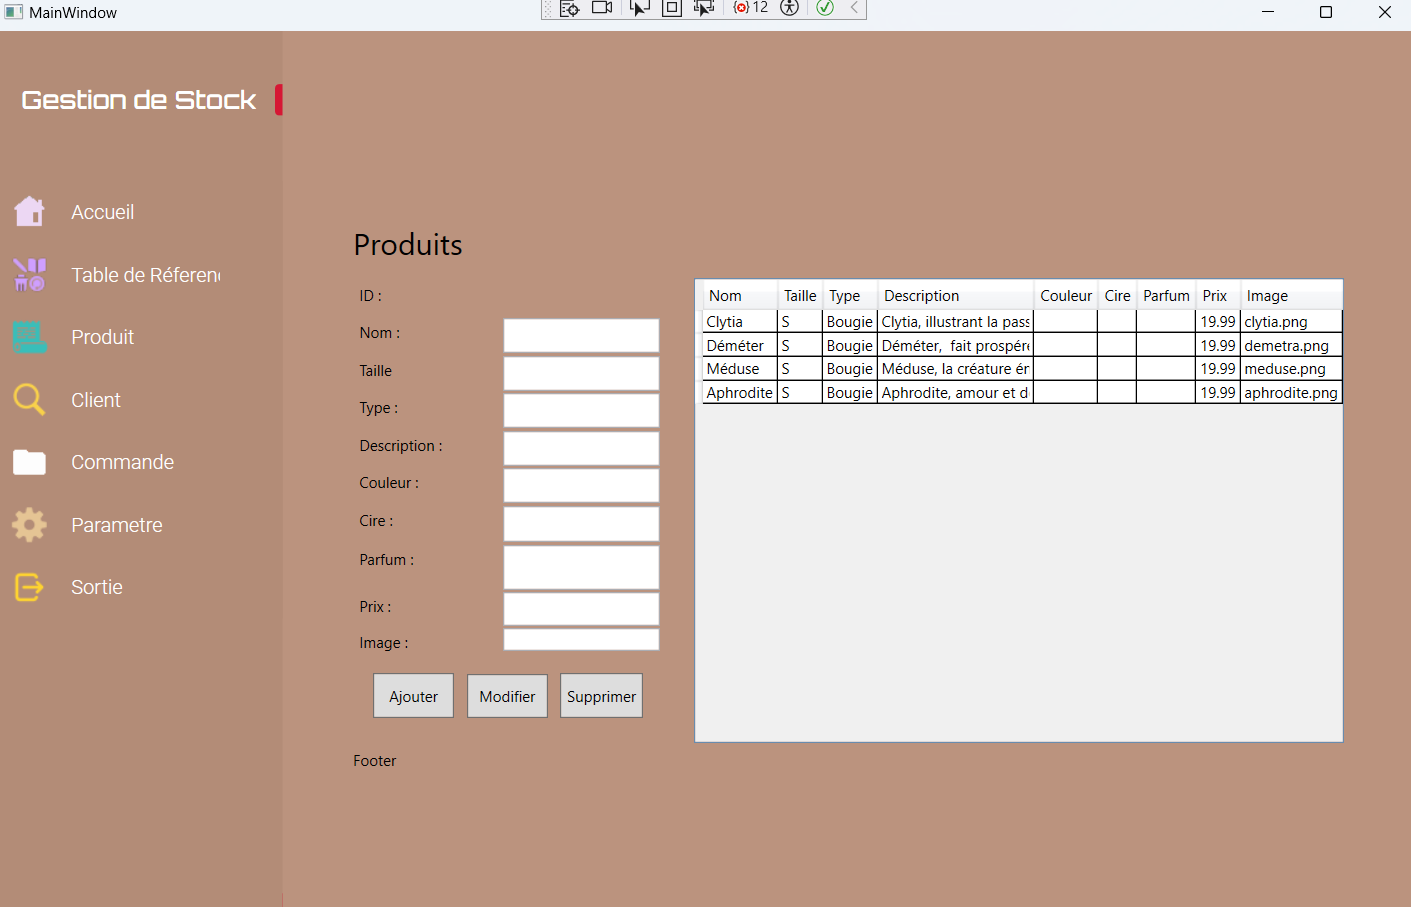
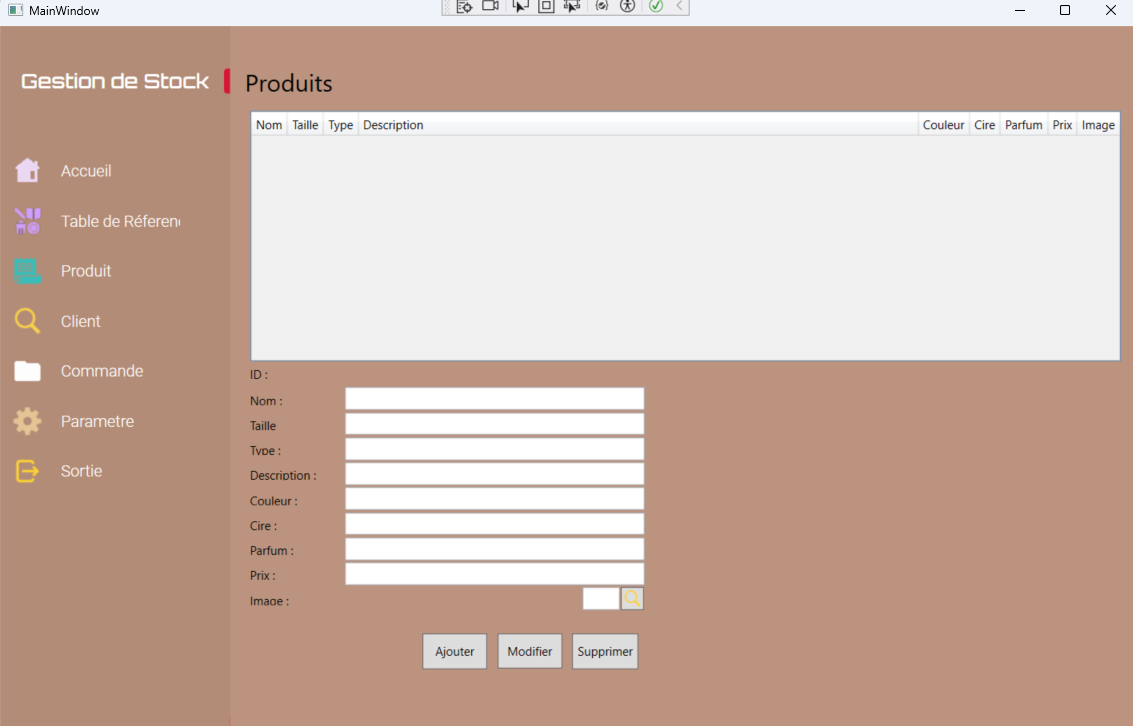
mj4

diff --git a/projet4_formation.html b/projet4_formation.html
@@ -30,7 +30,7 @@
         <div class="hero-content display-table">
             <div class="table-cell">
                 <div class="container">
-                    <h2 class="hero-title mb-4">Framework Laravel</h2>
+                    <h2 class="hero-title mb-4">Application Bloc-notes</h2>
                 </div>
             </div>
         </div>
@@ -69,15 +69,24 @@
                         <div class="portfolio-description">
                             <h2>Plus de détails</h2>
                             <p>
-                                <p>
-                                    Le logiciel est un bloc-notes développé en C# avec WPF. 
-                            <p>
-                                Il offre une interface utilisateur intuitive pour créer, éditer et enregistrer des notes. Les fonctionnalités peuvent inclure la mise en forme du texte, la possibilité d'ajouter des images ou des liens, ainsi que des options de recherche et de gestion des fichiers.
-                            </p>                            </p>
-                            <p>
-                            
+                                L'application est un bloc-notes développée en C# et XAML avec la technologie WPF. Il
+                                offre une interface utilisateur intuitive pour créer, éditer et enregistrer des notes.
+                                Les fonctionnalités peuvent inclure la mise en forme du texte, la possibilité d'ajouter
+                                des images ou des liens, ainsi que des options de recherche et de gestion des fichiers.
                             </p>
-                        
+                            <p>
+                                WPF (Windows Presentation Foundation) est une technologie de Microsoft utilisée pour le
+                                développement d'interfaces utilisateur graphiques (GUI) dans les applications Windows.
+                                Elle utilise le langage XAML (eXtensible Application Markup Language) pour définir la
+                                structure et l'apparence des interfaces utilisateur.
+                            </p>
+                            <p>
+                                En d'autres termes, avec C#, vous pouvez créer des fonctionnalités, des algorithmes, des
+                                logiques métier et interagir avec des données, tandis qu'avec WPF, vous pouvez créer des
+                                fenêtres, des contrôles, des animations, des styles, etc. pour votre application.
+                            </p>
+
+
                         </div>
                     </div>
 

diff --git a/index.html b/index.html
@@ -120,7 +120,8 @@
                     </p>
                     <p class="lead">
                       Je suis actuellement étudiante au sein de l'institut de formation IFC à Avignon, en BTS SIO (Services Informatiques aux Organisations), option SLAM (Solutions Logicielles et Applications Métiers) en déclic.
-                      Durant ma première année de BTS SIO, j'étais en alternance chez GMA Consulting, une société éditrice de logiciels pour les collectivités, de formation, de conseils et d'assistance depuis 2004. Durant ma deuxième année, j'ai effectué un stage au sein de l'entreprise Kurz Informatique, spécialisée dans la création d'applications web et de logiciels.
+                      Durant ma première année de BTS SIO, j'étais en alternance chez GMA Consulting, une société éditrice de logiciels pour les collectivités, de formation, de conseils et d'assistance depuis 2004. Durant ma deuxième année, j'ai effectué un stage au sein de l'entreprise Kurz Informatique, spécialisée dans la création d'applications web et de logiciels depuis 2016.
+                    
                     </p>
                   </div>
                 </div>
@@ -436,7 +437,7 @@
               <div class="work-content">
                 <div class="row">
                   <div class="col-sm-8">
-                    <h2 class="w-title">Bloc-notes</h2>
+                    <h2 class="w-title">Application Bloc-notes</h2>
                   </div>
 
 
@@ -530,6 +531,8 @@
                       Ce sont des sujets qui me tiennent particulièrement à coeur et sont d'importants sujets
                       concernants les développeurs de manière générale.
                     </p>
+                    <br>
+                    <p>Les flux RSS (Really Simple Syndication) sont des formats de données utilisés pour fournir du contenu régulièrement mis à jour à un public cible. </p>
                   </div>
                 </div>
                 <div class="col-md-6">

diff --git a/projet5_formation.html b/projet5_formation.html
@@ -72,7 +72,11 @@
             <div class="portfolio-description">
               <h2>Plus de détails</h2>
               <p>
-                Afin de déployer mes projets pour le BTS, notamment pour mon projet client leger Hera Bougie ,j'ai utilsé O2Switch. Un hébergeur avec lequel on crée un nom de domaine et sous-domaines.               </p>
+                Dans le cadre du déploiement de mes projets en vue de l'obtention du BTS, en particulier pour mon projet client léger intitulé Hera Bougie, j'ai opté pour les services d'O2Switch.                <p>O2Switch est une entreprise d'hébergement web basée en France. Elle propose des services d'hébergement de sites web, de noms de domaine, de messagerie électronique et d'autres services associés.</p>
+              <p>Pour déployer son site, il faut d'abord préparer les fichiers du site, puis les téléverser sur un serveur web via un client FTP ou une plateforme d'hébergement, et enfin configurer le domaine pour pointer vers le serveur.</p>
+              <br>
+              <p>Un client FTP (File Transfer Protocol) est un logiciel utilisé pour transférer des fichiers entre un ordinateur local et un serveur distant via le protocole FTP. FileZilla est un logiciel open-source gratuit qui permet aux utilisateurs de se connecter à des serveurs FTP pour transférer des fichiers de manière sécurisée et efficace.</p>
+            
             </div>
           </div>
 

diff --git a/projet1_windev.html b/projet1_windev.html
@@ -30,7 +30,7 @@
 		<div class="hero-content display-table">
 			<div class="table-cell">
 				<div class="container">
-					<h2 class="hero-title mb-4">Débogage des problèmes au niveau du code </h2>
+					<h2 class="hero-title mb-4">Débogage 55555des problèmes au niveau du code </h2>
 				</div>
 			</div>
 		</div>
@@ -68,16 +68,6 @@
 					<div class="col-lg-4">
 						<div class="portfolio-description">
 							<h2>Plus de détails</h2>
-							<p>
-								Le site de GMA Consulting a été créé il y a quelques années pour répondre aux besoins
-								des associations et pour être plus accessible pour l'utilisateur, avec une interface
-								plus moderne. Ma tâche première était de comprendre l'origine des problèmes et de
-								trouver des solutions.
-							</p>
-							<p>
-								Pour ma part, j'ai travaillé en local afin de ne pas déranger mes collègues qui
-								utilisaient le site pour d'autres mises à jour ou migrations.
-							</p>
 							<p>
 								Le site de GMA Consulting est celui sur lequel j'ai travaillé durant ma première année.
 								C'est une application avec un système de droits, où les clients peuvent accéder à

diff --git a/projet3_formation.html b/projet3_formation.html
@@ -48,7 +48,7 @@
               <div class="swiper-wrapper align-items-center">
 
                 <div class="swiper-slide">
-                  <a href="hera-bougie@ifcsio2022"
+                  <a href="https://github.com/NourOunissi/UsageStock"
                   target="_blank">
                     <img src="assets/img/logiciel1.png" alt="">
                   </a>
@@ -90,10 +90,12 @@
             <div class="portfolio-description">
               <h2>Plus de détails</h2>
               <ul>
-                <li><a href="https://hera-bougie@ifcsio2022.fr/" target="_blank">Lien du site</a></li>
-                <li>Site utilisant les données de l'organisation</li>
+                <li><a href="https://github.com/NourOunissi/UsageStock" target="_blank">Lien du code de l'application</a></li>
+                <li>Page d'accueil </li>
+                <li>Page Table de Rèfèrence : Cire  </li>
+                <li>Page Produit </li>
                 <li>Base de données </li>
-                <li>Connexion de l'utilisateur</li>
+                <li>Exemple code</li>
               </ul>
             </div>
           </div>

diff --git a/projet2_formation.html b/projet2_formation.html
@@ -55,7 +55,7 @@
                 </div>
                 
                 <div class="swiper-slide">
-                  <img src="assets/img/site1.png" alt="" />
+                  <img src="assets/img/extranet_hera.png" alt="" />
                 </div>
                 
                 <div class="swiper-slide">
@@ -79,8 +79,10 @@
             <div class="portfolio-description">
               <h2>Plus de détails</h2>
               <ul>
-                <li><a href="https://hera-bougie@ifcsio2022.fr/" target="_blank">Lien du site</a></li>
-                <li>Site utilisant les données de l'organisation</li>
+                <li><a href="https://hera-bougie.ifcsio2022.fr/" target="_blank">Lien du site</a></li>
+                <li>Page des bougies</li>
+                <li>Page d'accueil</li>
+                <li>Page de connexion</li>
                 <li>Base de données </li>
               </ul>
             </div>

diff --git a/projet1_formation.html b/projet1_formation.html
@@ -73,7 +73,10 @@
               <h2>Plus de détails</h2>
               <p>
                 Afin de déployer mes projets pour le BTS, notamment pour mon projet du Portfolio, j'ai utilisé GitHub, un hébergeur avec lequel on crée un nom de domaine et des sous-domaines.            </div>
-          </div>
+                <br>
+                <p>GitHub est une plateforme de développement de logiciels basée sur le cloud qui offre des fonctionnalités de contrôle de version et de collaboration pour les équipes de développement de logiciels. </p>
+                <p>Pour déployer un projet depuis VS Code, il faut d'abord préparer les fichiers du projet, les versionner à l'aide de Git, les pousser vers un dépôt distant comme GitHub, puis configurer le serveur d'hébergement pour déployer le projet en ligne.</p>
+              </div>
 
         </div>
 

diff --git a/projet11_formation.html b/projet11_formation.html
@@ -62,6 +62,7 @@
               <h2>Plus de détails</h2>
               <p> Je développe activement mon réseau professionnel sur LinkedIn pour établir des connexions significatives et favoriser les opportunités de collaboration et de croissance.
                 </p>
+                <p>LinkedIn est un réseau social professionnel en ligne qui permet aux utilisateurs de créer des profils professionnels, de se connecter avec d'autres professionnels, de rechercher des emplois, de publier des articles, de participer à des discussions professionnelles et de développer leur réseau professionnel. </p>
             </div>
           </div>
 
